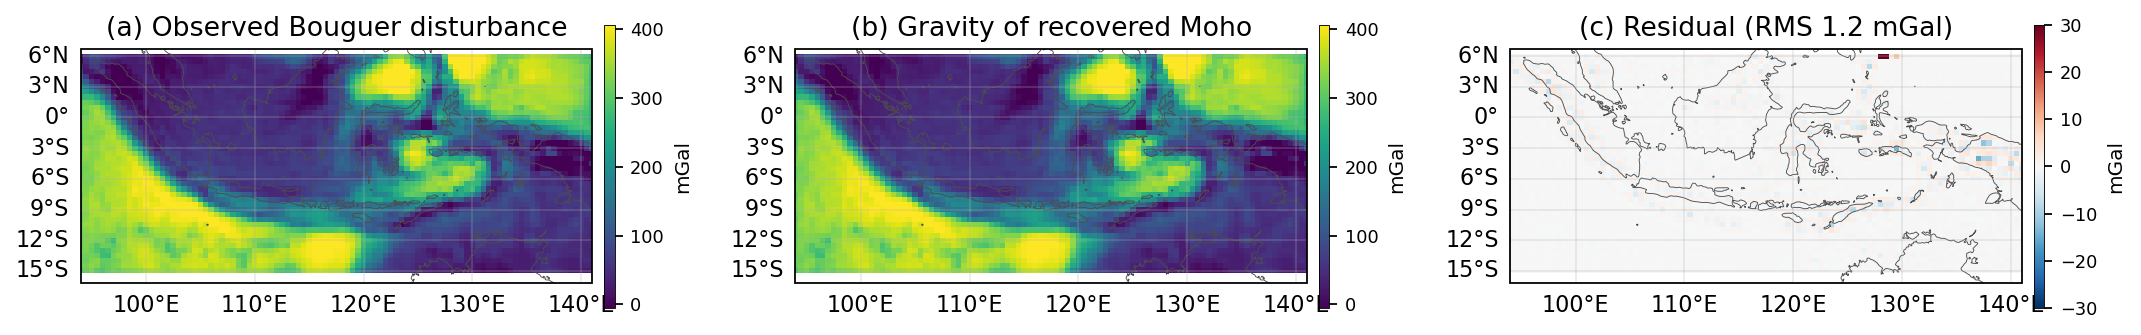
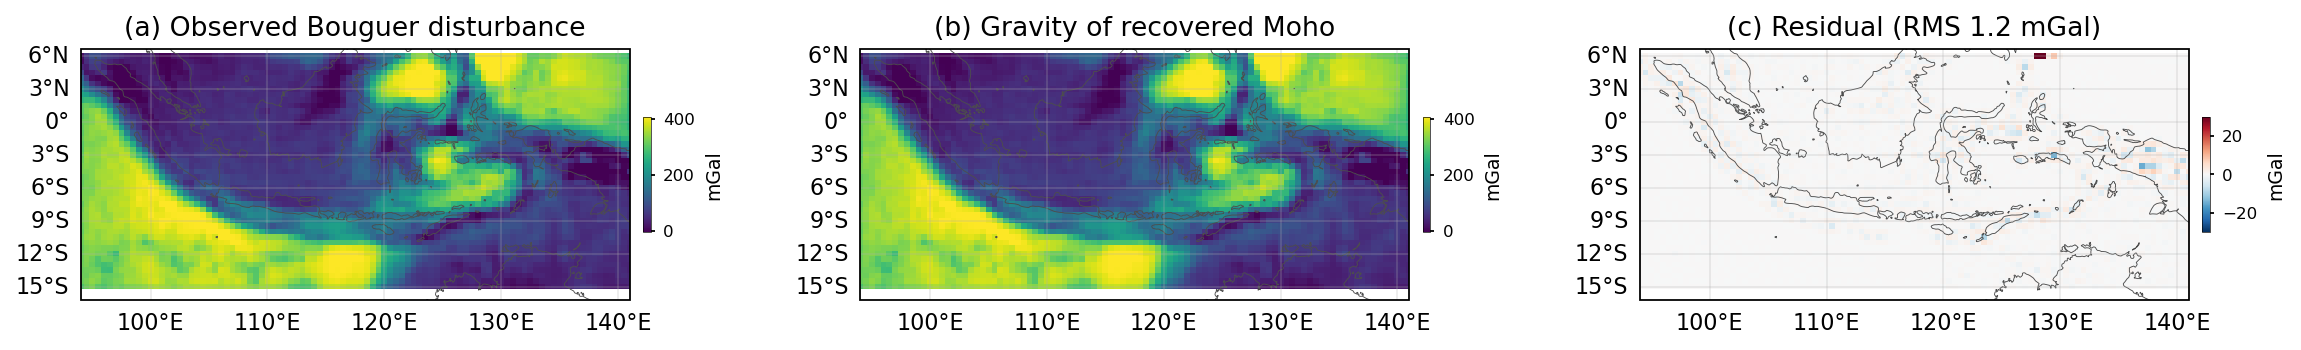
Elegant slim colorbars for gravity_residuals (inset, half map height)
Colorbar as an inset_axes anchored to the box-aspected map (height 0.46, width
0.014) so it is exactly half the map height and slim, regardless of the wide/short
panel; widen inter-panel spacing (wspace 0.42) so the (a)/(b) colorbar ticks no
longer collide with the next panel's latitude labels.

diff --git a/moho_indonesia/gravity_residuals.py b/moho_indonesia/gravity_residuals.py
@@ -45,8 +45,8 @@ def main():
 
     region = [94, 141, -15, 6.5]
     br = (region[3] - region[2]) / (region[1] - region[0])
-    fig = plt.figure(figsize=(16.5, 4.6))
-    gs = fig.add_gridspec(1, 3, wspace=0.16)
+    fig = plt.figure(figsize=(17, 4.6))
+    gs = fig.add_gridspec(1, 3, wspace=0.42)
     panels = [("(a) Observed Bouguer disturbance", obs, "viridis", None),
               ("(b) Gravity of recovered Moho", pred, "viridis", None),
               (f"(c) Residual (RMS {rms:.1f} mGal)", resid, "RdBu_r", 30)]
@@ -62,9 +62,11 @@ def main():
         except Exception:
             pass
         gl = ax.gridlines(draw_labels=True, lw=0.2); gl.top_labels = gl.right_labels = False
-        cb = fig.colorbar(pcm, ax=ax, shrink=0.5, aspect=28, pad=0.02)
-        cb.set_label("mGal", fontsize=9); cb.ax.tick_params(labelsize=8)
-        cb.outline.set_linewidth(0.4)
+        # slim colorbar as an inset anchored to the (box-aspected) map: half its height
+        cax = ax.inset_axes([1.025, 0.27, 0.014, 0.46])
+        cb = fig.colorbar(pcm, cax=cax)
+        cb.set_label("mGal", fontsize=8.5); cb.ax.tick_params(labelsize=7.5, length=2)
+        cb.outline.set_linewidth(0.3)
         ax.set_title(title)
     out = C.FIGURES / "gravity_residuals.png"
     fig.savefig(out, dpi=160, bbox_inches="tight")
